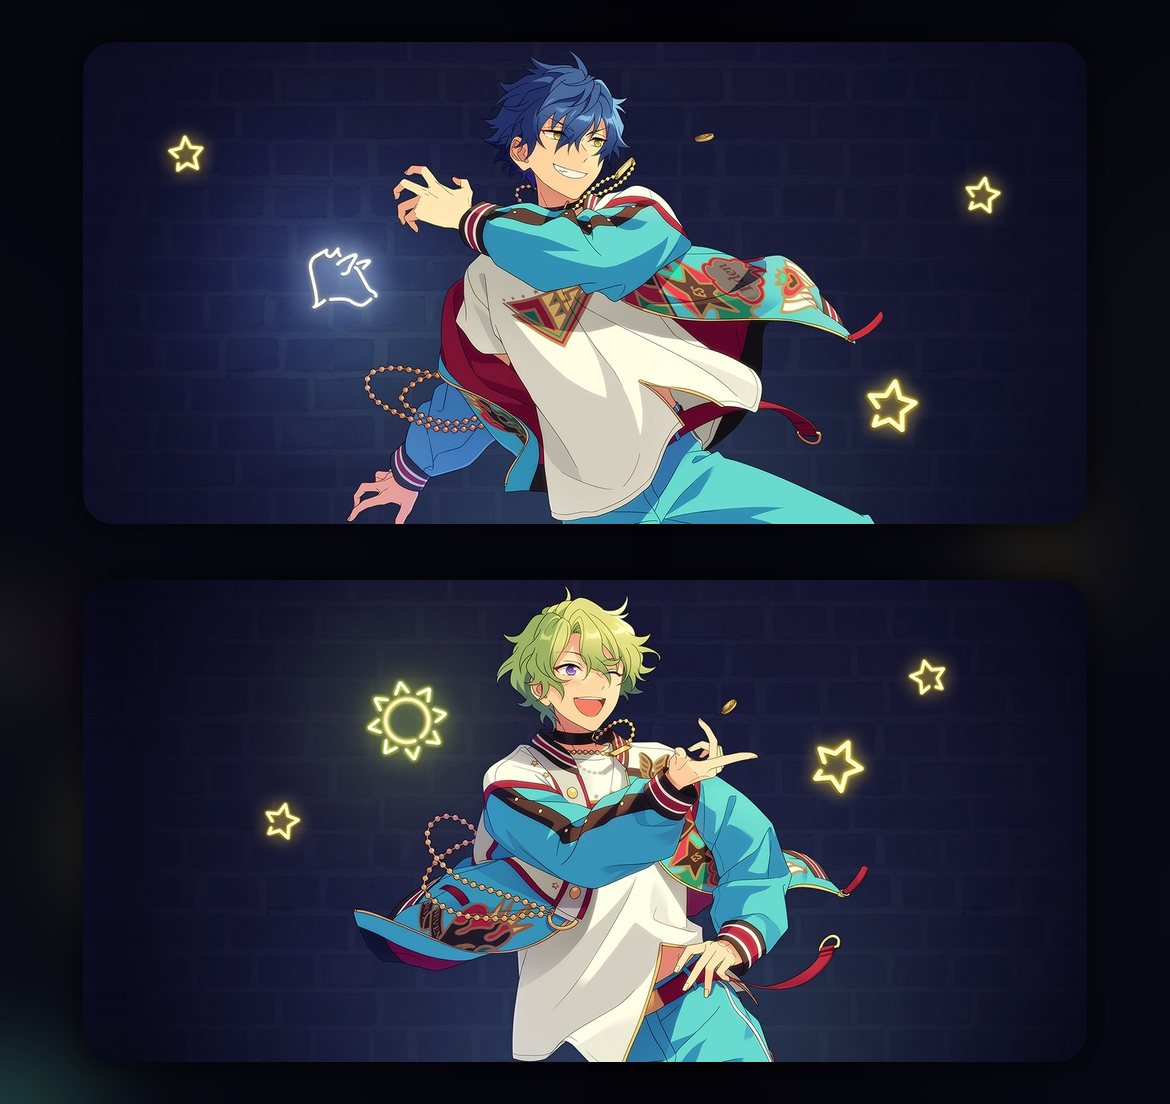
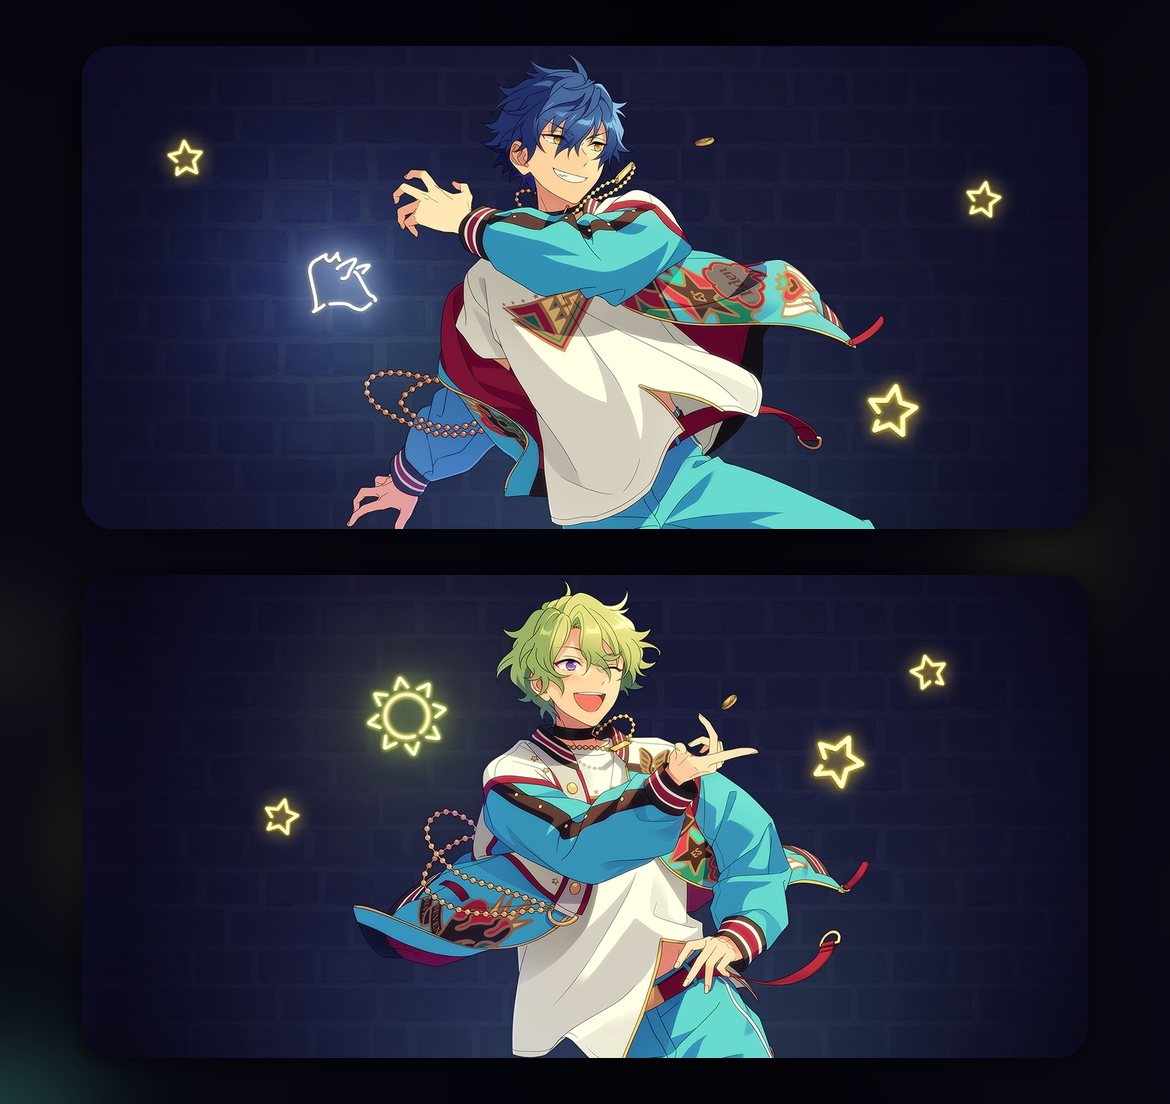
fix(hero): CP 手机版上下留白改成严格三等分（42/56/42 -> 46/46/46）
原来上/中/下留白比例不同（边距 42、间距 56），上下两半看起来不匀。
把 MARGIN 与 GAP 统一为 46：切分线仍落在正中 H/2，但三条留白比例完全相同，
卡片大小几乎不变（482->483）。10 张 _m.jpg 已重新生成。
另加 scripts/cp_preview.py 用于本地出预览图。

diff --git a/scripts/cp_preview.py b/scripts/cp_preview.py
@@ -1,0 +1,104 @@
+#!/usr/bin/env python3
+# -*- coding: utf-8 -*-
+"""CP 手机版：生成桌面预览图（不参与部署）。
+
+1) CP手机版_改后预览.jpg     —— 10 张 _m.jpg 的手机 hero 模拟缩略图（390x354）
+2) CP手机版_留白对比.jpg     —— 改前(42/56/42) vs 改后(46/46/46) 的等比示意图
+用法：python scripts/cp_preview.py
+"""
+import glob
+from pathlib import Path
+
+from PIL import Image, ImageDraw, ImageFont
+
+ROOT = Path(__file__).resolve().parent.parent
+DESK = Path.home() / "Desktop"
+FONTPATH = "C:/Windows/Fonts/msyh.ttc"
+
+BG = "#1b1b1b"
+CARD_COL = "#8c4553"
+GAP_COL = "#3a3a3a"
+LINE = "#ffd479"
+
+
+def font(sz):
+    try:
+        return ImageFont.truetype(FONTPATH, sz)
+    except OSError:
+        return ImageFont.load_default()
+
+
+def cover(im, bw, bh, pos=(0.5, 0.08)):
+    """模拟 hero 的 object-fit: cover。"""
+    s = max(bw / im.width, bh / im.height)
+    dw, dh = round(im.width * s), round(im.height * s)
+    im = im.resize((dw, dh), Image.LANCZOS)
+    ox, oy = round(pos[0] * (dw - bw)), round(pos[1] * (dh - bh))
+    return im.crop((ox, oy, ox + bw, oy + bh))
+
+
+def files():
+    fs = sorted(glob.glob(str(ROOT / "public/walls/leosou/*_m.jpg")))
+    fs += sorted(glob.glob(str(ROOT / "public/walls/junhiyo/*_m.jpg")))
+    return fs
+
+
+def sheet_tiles():
+    fs = files()
+    bw, bh = 390, 354
+    F = font(20)
+    sh = Image.new("RGB", (5 * (bw + 10) + 10, 2 * (bh + 28) + 10), BG)
+    d = ImageDraw.Draw(sh)
+    for i, fp in enumerate(fs):
+        x = 10 + (i % 5) * (bw + 10)
+        y = 10 + (i // 5) * (bh + 28)
+        sh.paste(cover(Image.open(fp).convert("RGB"), bw, bh), (x, y + 6))
+        name = Path(fp).parent.name + "/" + Path(fp).stem.replace("_m", "")
+        d.text((x, y + bh + 8), name, fill="#ccc", font=F)
+    sh.save(DESK / "CP手机版_改后预览.jpg", quality=88)
+    print("tiles", sh.size)
+
+
+def diagram(d, x, y, w, m, c, g, title):
+    """按 1104 等比例画一列：留白 / 卡 / 间距 / 卡 / 留白。"""
+    F, FS = font(22), font(17)
+    sc = 480 / 1104
+    d.text((x, y - 34), title, fill="#fff", font=F)
+
+    bands = [("上留白", m, GAP_COL), ("卡片1", c, CARD_COL), ("间距", g, GAP_COL),
+             ("卡片2", c, CARD_COL), ("下留白", m, GAP_COL)]
+    yy = y
+    card_x = x + (w - 1006 * sc) / 2
+    for name, val, col in bands:
+        h = val * sc
+        if col == CARD_COL:
+            d.rounded_rectangle([card_x, yy, card_x + 1006 * sc, yy + h],
+                                radius=8, fill=col, outline="#d4909b", width=2)
+            d.text((card_x + 14, yy + h / 2 - 10), f"{name}  1006×{val}", fill="#ffe9ec", font=FS)
+        else:
+            d.rectangle([x, yy, x + w, yy + h], fill=col)
+            d.text((x + 10, yy + h / 2 - 10), f"{name}  {val}px", fill="#ffd479" if h > 14 else "#e8c37a", font=FS)
+        yy += h
+
+    mid = y + 480 / 2
+    for xx in range(int(x), int(x + w), 12):
+        d.line([xx, mid, xx + 6, mid], fill=LINE, width=2)
+    d.text((x + w + 6, mid - 11), "H/2", fill=LINE, font=FS)
+
+
+def sheet_schematic():
+    sc_w = 509
+    sh = Image.new("RGB", (40 + sc_w + 80 + sc_w + 40, 640), BG)
+    d = ImageDraw.Draw(sh)
+    d.text((40, 18), "CP 手机版：上下留白比例 —— 改前(42 / 56 / 42)  vs  改后(46 / 46 / 46)", fill="#fff", font=font(26))
+    diagram(d, 40, 110, sc_w, 42, 482, 56, "改前：中间挤、上下宽")
+    d.text((40, 640 - 60), "切分线本来就落在 H/2，只是三条留白比例不同。", fill="#aaa", font=font(18))
+    diagram(d, 40 + sc_w + 80, 110, sc_w, 46, 483, 46, "改后：上 = 中 = 下，比例完全相同")
+    d.text((40 + sc_w + 80, 640 - 60), "卡片大小几乎不变（482→483），只是间距 56→46、边距 42→46。", fill="#aaa", font=font(18))
+    sh.save(DESK / "CP手机版_留白对比.jpg", quality=88)
+    print("schematic", sh.size)
+
+
+if __name__ == "__main__":
+    sheet_tiles()
+    sheet_schematic()

diff --git a/scripts/build_cp_mobile.py b/scripts/build_cp_mobile.py
@@ -30,8 +30,8 @@ WALLS = ROOT / "public" / "walls"
 CP_KEYS = ("leosou", "junhiyo")
 
 W, H = 1170, 1104     # 目标尺寸，比例 1.06:1（≈ 手机 42vh hero，不裁）
-MARGIN = 42           # 卡片距画面上下边
-GAP = 56              # 两张卡之间的间距
+MARGIN = GAP = 46     # 上边距 = 两卡间距 = 下边距 → 三条留白比例完全相同，
+                      # 切分线正好落在 H/2（46 + 483 + 23 = 552）
 CROP_W = 1500         # 每半张的取景宽（1500 < 1560，人物居中且放大一点）
 RADIUS = 30           # 卡片圆角
 Q = 84
